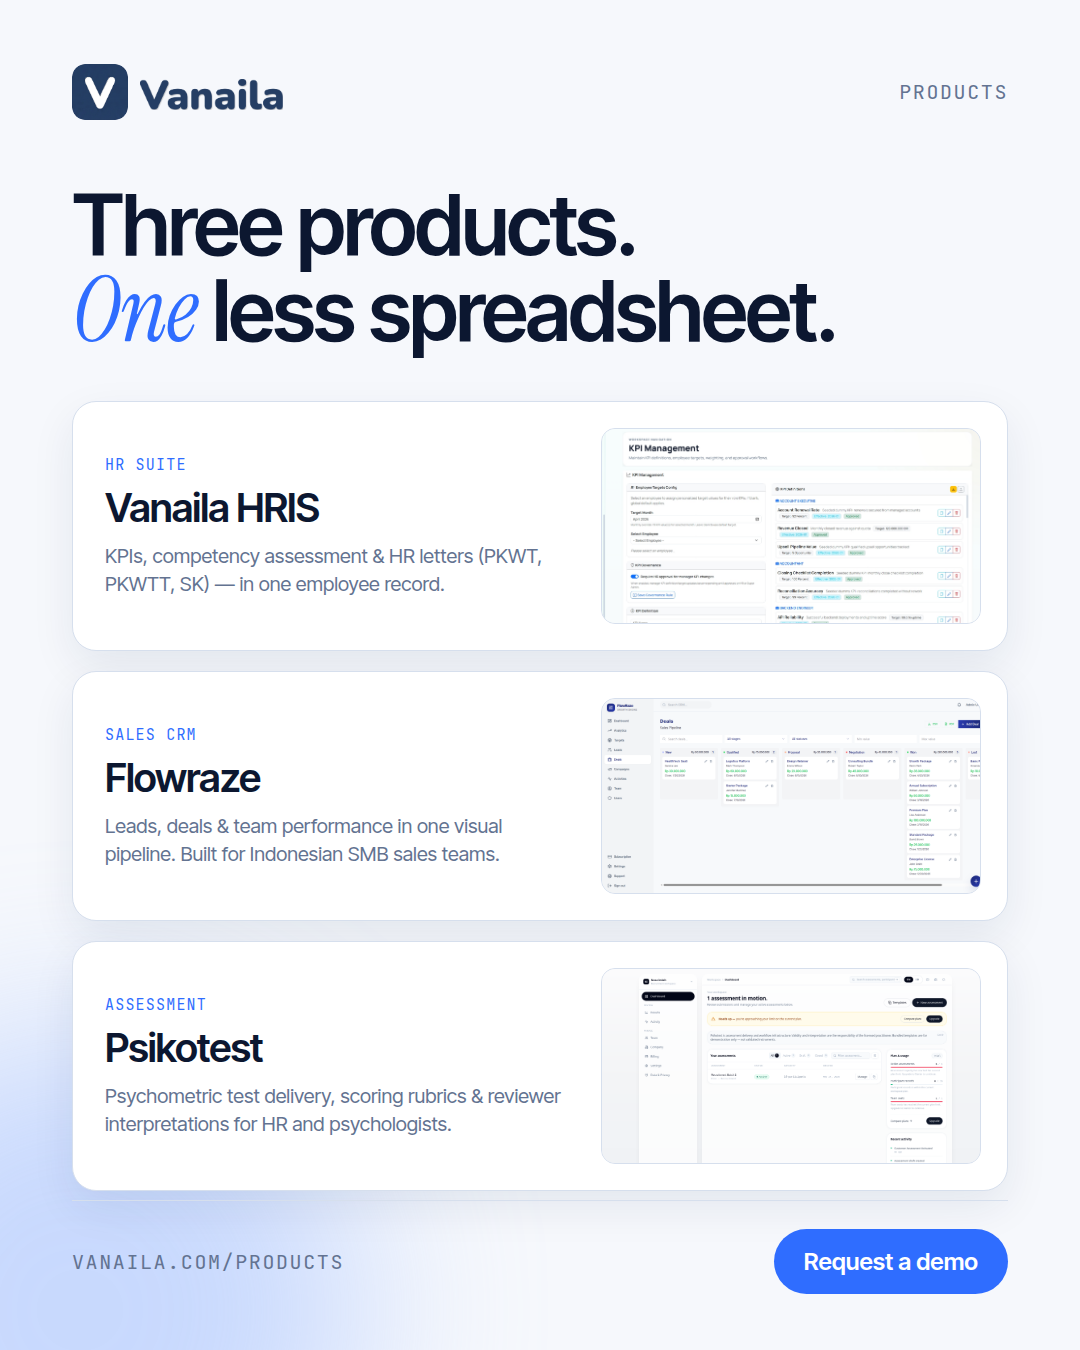
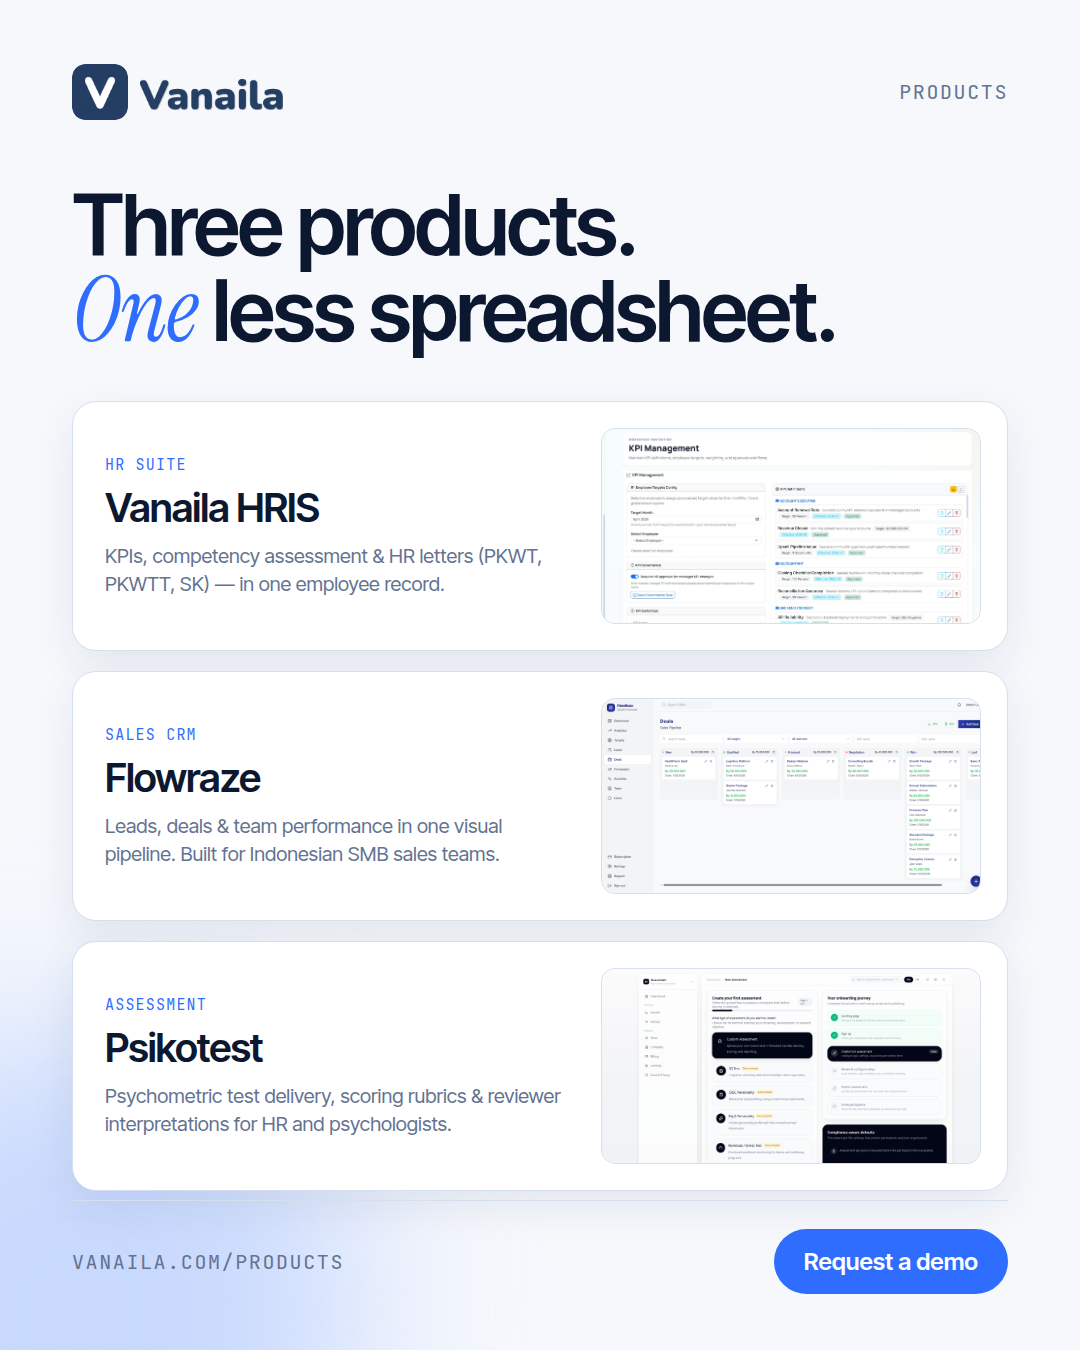
docs(marketing): add Psikotest hero post and refresh Psikotest screenshots
- 13-hero-psikotest with caption
- use new-assessment screenshot in products and svc-10 posts

Changed region(s): [[0.5806, 0.7156, 0.8861, 0.8711]]

diff --git a/docs/marketing/templates/03-products.html b/docs/marketing/templates/03-products.html
@@ -15,7 +15,7 @@
   <div class="prods">
     <div class="p"><div><div class="tag">HR Suite</div><h3>Vanaila HRIS</h3><p>KPIs, competency assessment & HR letters (PKWT, PKWTT, SK) — in one employee record.</p></div><div class="shot"><img src="../../../public/hris/hris-kpi-management.jpeg"></div></div>
     <div class="p"><div><div class="tag">Sales CRM</div><h3>Flowraze</h3><p>Leads, deals & team performance in one visual pipeline. Built for Indonesian SMB sales teams.</p></div><div class="shot"><img src="../../../public/flowraze/deals.png"></div></div>
-    <div class="p"><div><div class="tag">Assessment</div><h3>Psikotest</h3><p>Psychometric test delivery, scoring rubrics & reviewer interpretations for HR and psychologists.</p></div><div class="shot"><img src="../../../public/psikotest/dashboard-assessment.png"></div></div>
+    <div class="p"><div><div class="tag">Assessment</div><h3>Psikotest</h3><p>Psychometric test delivery, scoring rubrics & reviewer interpretations for HR and psychologists.</p></div><div class="shot"><img src="../../../public/psikotest/new-assessment.png"></div></div>
   </div>
   <div class="foot"><div class="mono muted">vanaila.com/products</div><div class="cta">Request a demo</div></div>
 </div></body></html>

diff --git a/docs/marketing/templates/13-hero-psikotest.html b/docs/marketing/templates/13-hero-psikotest.html
@@ -1,0 +1,11 @@
+<!doctype html><html><head><meta charset="utf-8"><link rel="stylesheet" href="_brand.css"><link rel="stylesheet" href="_hero.css"></head><body>
+<div class="post hero">
+  <div class="glow" style="width:720px;height:720px;background:#a3c0ff;left:180px;top:-440px;opacity:.6"></div>
+  <div class="top"><div class="brand" aria-label="Vanaila"><span class="lm"></span><span class="lw"></span></div><div class="mono muted">Psikotest</div></div>
+  <div class="pill"><i></i>For HR teams & psychologists</div>
+  <h1 class="big">Psychotests,<br><span class="serif">without</span> the paper.</h1>
+  <p class="sub">Deliver assessments online, score them automatically, and add reviewer-written interpretations — all in one workspace.</p>
+  <div class="ctas"><div class="btn p">Request a demo →</div><div class="btn s">vanaila.com/psikotest</div></div>
+  <div class="trust"><span>Online delivery</span><span>Automatic scoring</span><span>Expert interpretation</span></div>
+  <div class="browser"><div class="bar"><i></i><i></i><i></i><div class="url">psikotest · assessment workspace</div></div><img src="../../../public/psikotest/new-assessment.png" style="object-position:top left"></div>
+</div></body></html>

diff --git a/docs/marketing/templates/svc-10-psikotest.html b/docs/marketing/templates/svc-10-psikotest.html
@@ -36,6 +36,6 @@
   <p class="for"><b>For</b>Recruiters, psychology bureaus & research teams.</p>
   <div class="vals"><div class="v"><div class="ic">✓</div><div><b>Deliver online</b><p class="muted">Send assessments to candidates — no paper, no forms.</p></div></div><div class="v"><div class="ic">↗</div><div><b>Score automatically</b><p class="muted">Rubric-based scoring the moment a test is submitted.</p></div></div><div class="v"><div class="ic">★</div><div><b>Interpret with care</b><p class="muted">Reviewer-written interpretations by licensed psychologists.</p></div></div></div>
   <div class="ladder"><div class="lbl muted">Workflow</div><div class="steps"><div>Build assessment</div><div>Deliver & score</div><div>Review & report</div></div></div>
-  <div class="shot"><img src="../../../public/psikotest/dashboard-assessment.png"></div>
+  <div class="shot"><img src="../../../public/psikotest/new-assessment.png"></div>
   <div class="foot"><div class="mono muted">vanaila.com/psikotest</div><div class="cta">Request a demo</div></div>
 </div></body></html>

diff --git a/docs/marketing/captions.md b/docs/marketing/captions.md
@@ -283,3 +283,18 @@ One record. One approval flow. One audit trail.
 👉 Book a live demo: vanaila.com/hris or DM "HRIS".
 
 #HRIS #HRISIndonesia #AplikasiHR #ManajemenSDM #HRTech #VanailaHRIS
+
+## Post 13: Psychotests, without the paper (`output/13-hero-psikotest.png`)
+
+Psychotests, without the paper. 🧠📝
+
+Psikotest is the assessment workspace for HR teams and licensed psychologists:
+✅ Deliver assessments online: share a link or QR code, no paper and no forms
+✅ Automatic rubric-based scoring the moment a test is submitted
+✅ Reviewer-written interpretations by licensed psychologists
+✅ Upload your own instrument; Psikotest handles delivery, scoring and reporting
+
+Faster recruitment screening, cleaner data, consistent reports.
+👉 Request a demo: vanaila.com/psikotest or DM "PSIKOTEST".
+
+#Psikotes #PsikotesOnline #Rekrutmen #AsesmenPsikologi #HRTech #Psikotest

diff --git a/docs/marketing/README.md b/docs/marketing/README.md
@@ -16,6 +16,7 @@ Social media creatives for Vanaila Digital, built as HTML templates and rendered
 | 10 | `output/10-hero-website.png` | Hard-sell hero: website |
 | 11 | `output/11-hero-flowraze.png` | Hard-sell hero: Flowraze |
 | 12 | `output/12-hero-hris.png` | Hard-sell hero: HRIS |
+| 13 | `output/13-hero-psikotest.png` | Hard-sell hero: Psikotest |
 
 Service series (10 posts, one per offer): `output/svc-*.png`, captions and value propositions by customer type in [`service-series.md`](./service-series.md). Edit `data/services.json`, then run `npm run render:services`.
 
